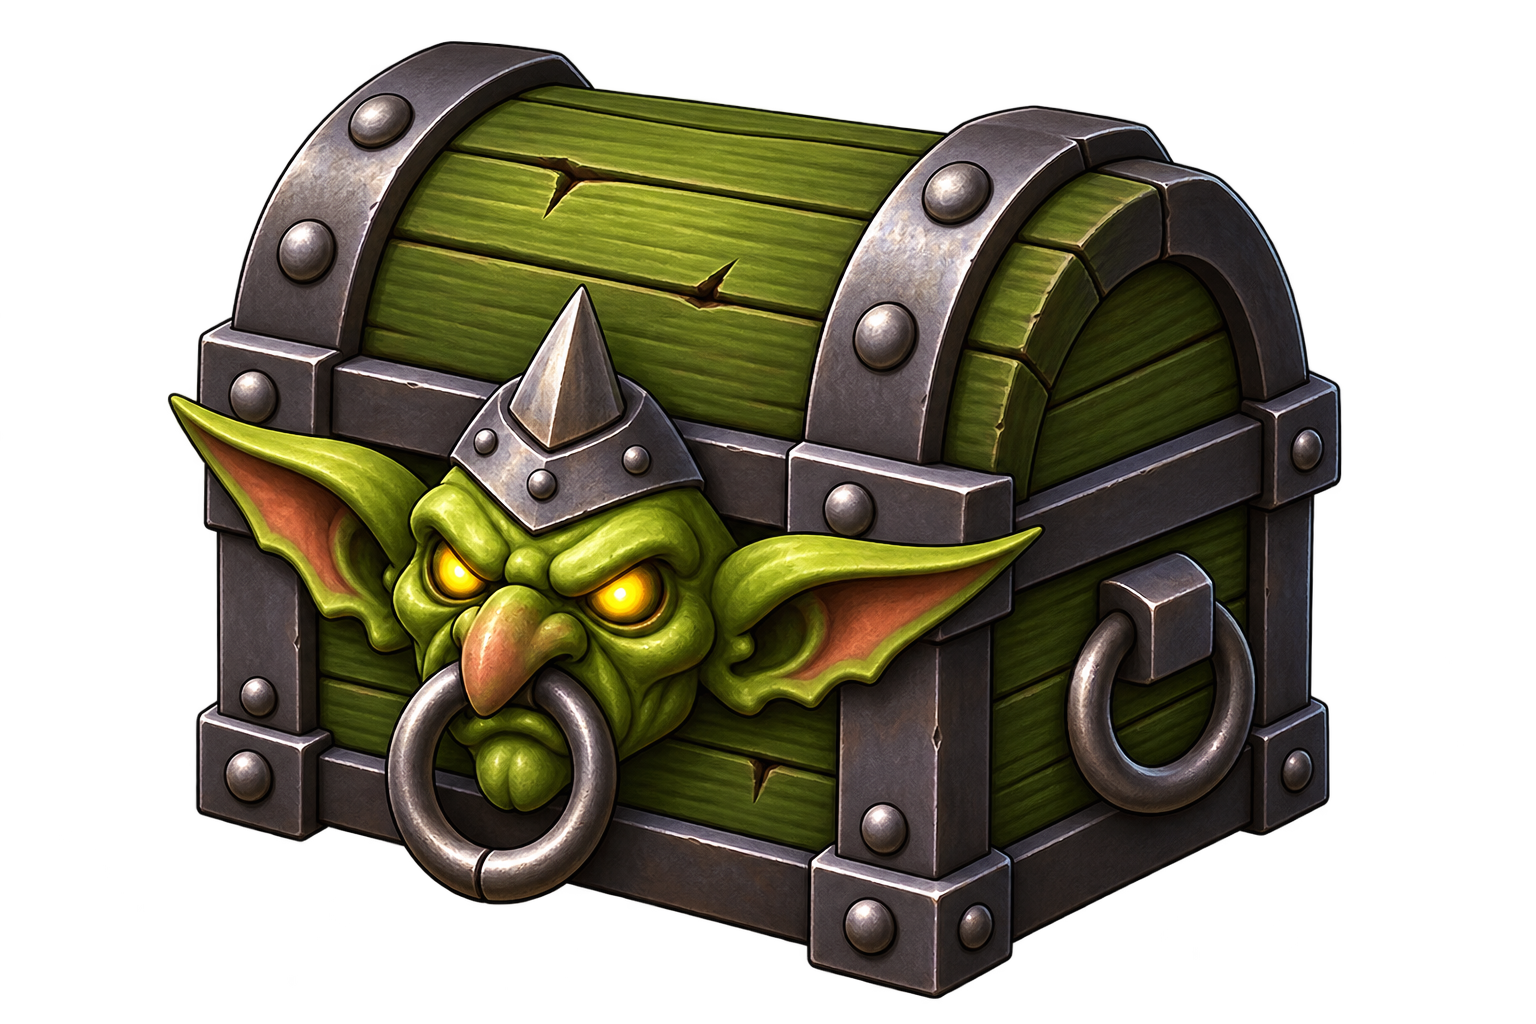
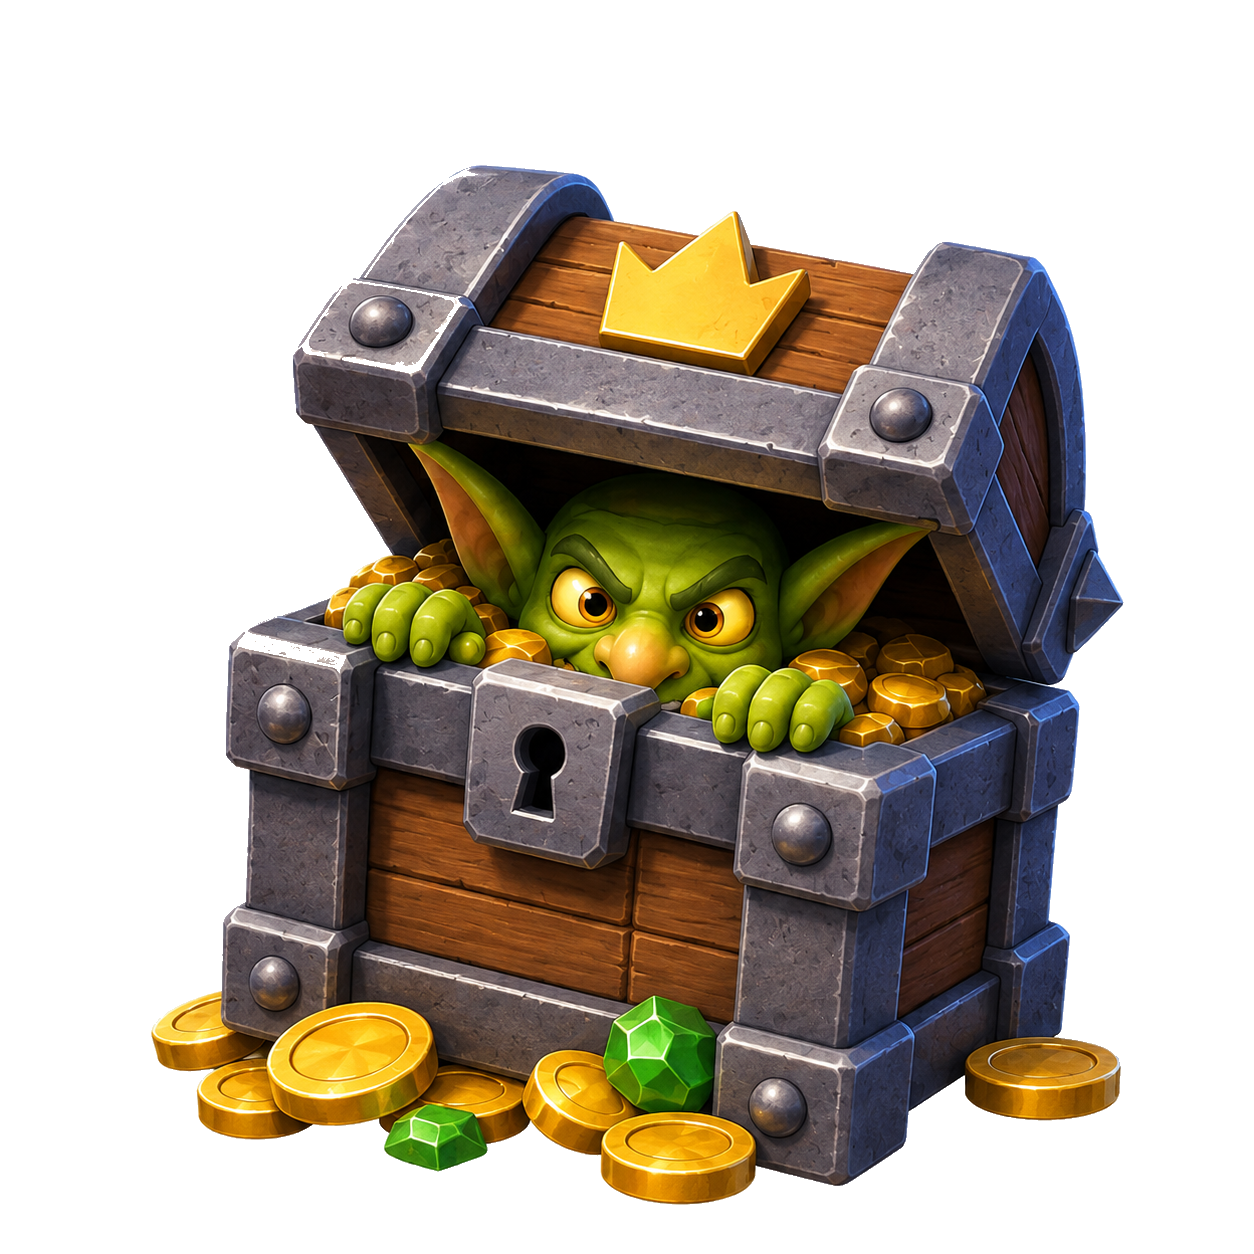
Update goblin special encounter artwork

diff --git a/monster-display-policy.js b/monster-display-policy.js
@@ -8,7 +8,7 @@
     plainsWolfPup: 'assets/plains-wolf-pup.png?v=20260831-monster-style-v1',
     plainsSlime: 'assets/plains-slime.png?v=20260831-monster-style-v1',
     plainsGoblinYoung: 'assets/plains-goblin-young.png?v=20260831-monster-style-v1',
-    lostGoblin: 'assets/lost-goblin.png?v=20260724-user-image-v1',
+    lostGoblin: 'assets/lost-goblin.png?v=20260831-monster-style-v1',
     denForestWolf: 'assets/wolf-den-forest-wolf.png?v=20260831-monster-style-v1',
     ragingWolf: 'assets/wolf-den-raging-wolf.png?v=20260831-monster-style-v1',
     greatfangWolf: 'assets/wolf-den-greatfang-wolf.png?v=20260831-monster-style-v1',
@@ -23,7 +23,7 @@
     goblinShaman: 'assets/goblin-camp-shaman-transparent.png?v=20260831-monster-style-v1',
     goblinGuard: 'assets/goblin-camp-guard-transparent.png?v=20260831-monster-style-v1',
     goblinCaptain: 'assets/goblin-camp-captain-transparent.png?v=20260831-monster-style-v1',
-    goblinTreasureChest: 'assets/goblin-treasure-chest.png?v=20260815-user-image-v1',
+    goblinTreasureChest: 'assets/goblin-treasure-chest.png?v=20260831-monster-style-v1',
     goblinHighChief: 'assets/goblin-camp-high-chief-transparent.png?v=20260831-monster-style-v1',
     wolf: 'assets/forest-wolf.png',
     boar: 'assets/wild-boar.png',

diff --git a/tests/monster-display-policy.test.js b/tests/monster-display-policy.test.js
@@ -21,7 +21,7 @@ monsterIds.forEach((monsterId) => {
   assert.ok(displayPolicy.MONSTER_IMAGE_BY_TYPE[monsterId].includes('goblin-camp-'), `${monsterId} uses dedicated goblin-camp combat art`);
   assert.ok(displayPolicy.MONSTER_IMAGE_BY_TYPE[monsterId].includes('-transparent.png'), `${monsterId} uses transparent goblin-camp combat art`);
 });
-assert.equal(displayPolicy.MONSTER_IMAGE_BY_TYPE.goblinTreasureChest, 'assets/goblin-treasure-chest.png?v=20260815-user-image-v1');
+assert.equal(displayPolicy.MONSTER_IMAGE_BY_TYPE.goblinTreasureChest, 'assets/goblin-treasure-chest.png?v=20260831-monster-style-v1');
 assert.equal(displayPolicy.getMonsterLevel({ min: 3, max: 5 }, 1), 3, 'monster level does not fall below the map minimum');
 assert.equal(displayPolicy.getMonsterLevel({ min: 3, max: 5 }, 4), 4, 'monster level follows player level inside the map range');
 assert.equal(displayPolicy.getMonsterLevel({ min: 3, max: 5 }, 8), 5, 'monster level does not exceed the map maximum');
